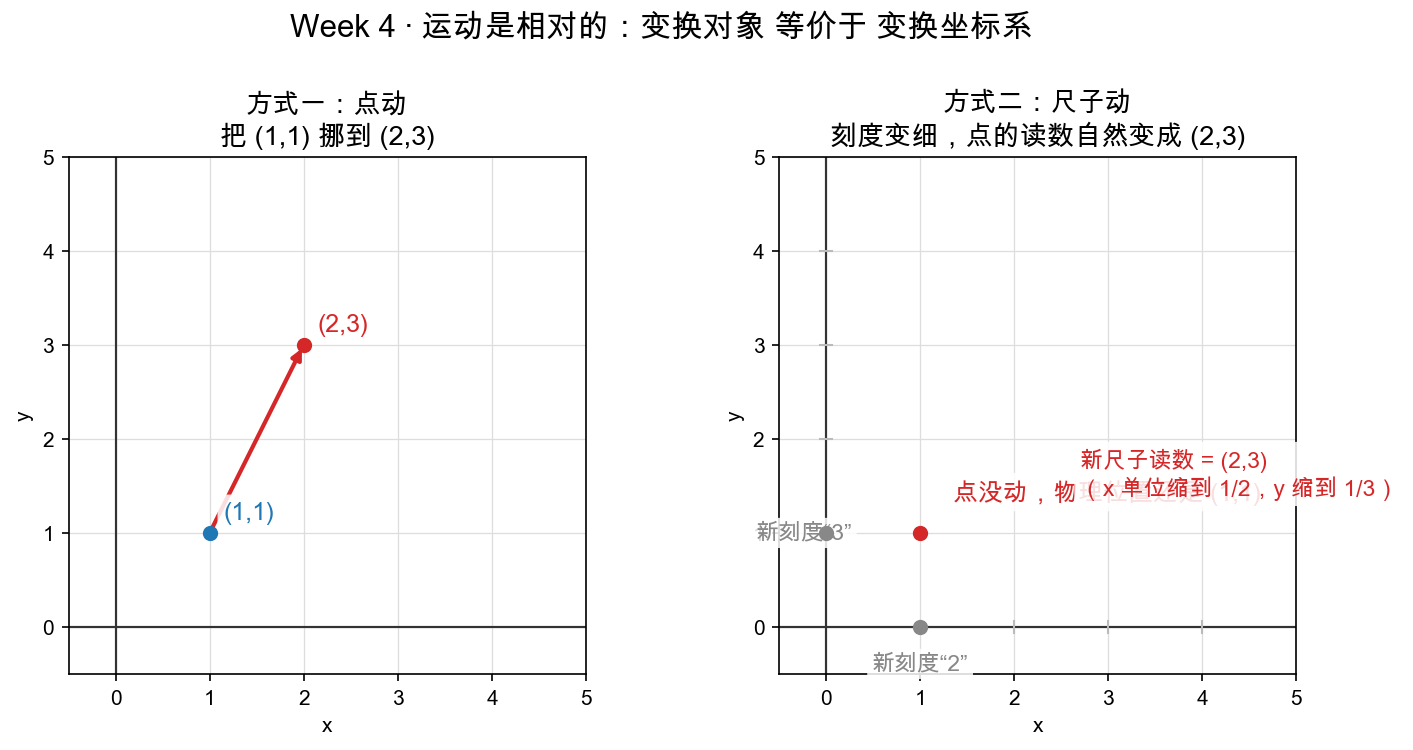
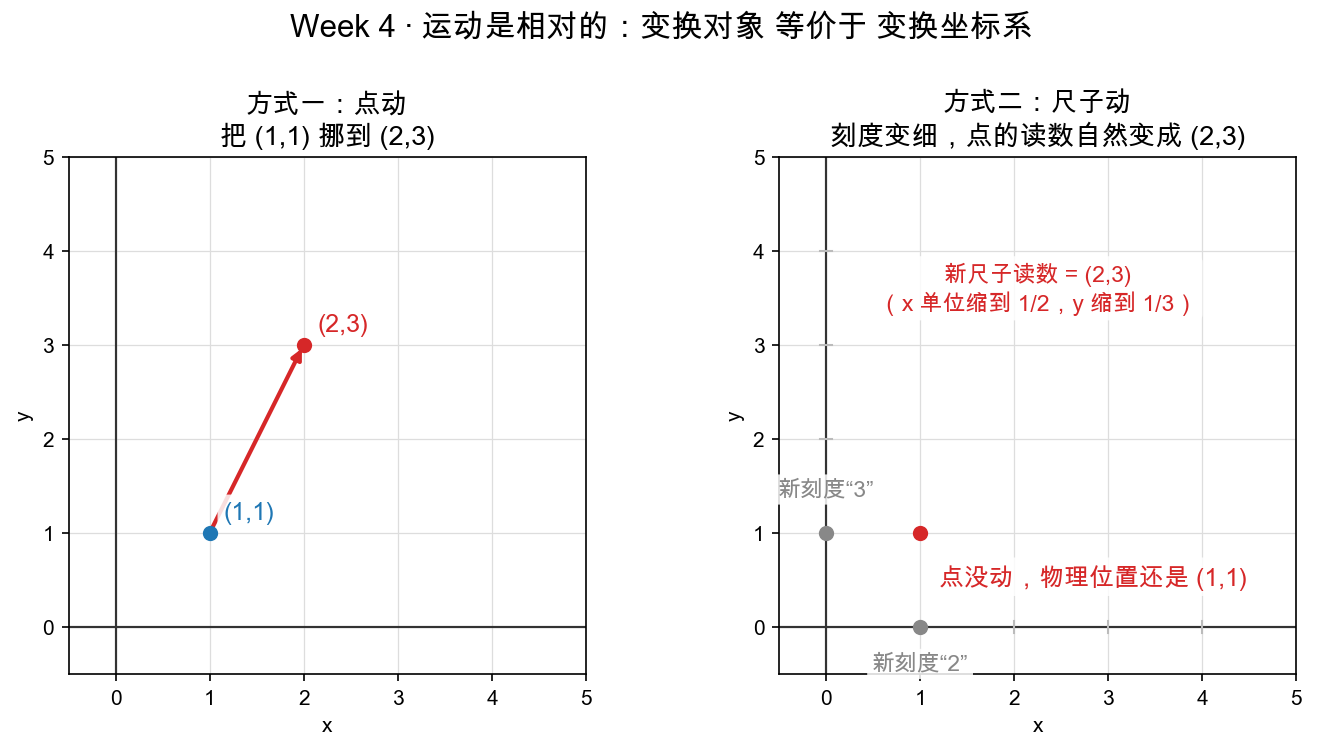
更新 W4D2 图示：调整标签位置以避免重叠，增强新尺子读数的可读性，更新标题以更好地反映内容变化。

diff --git a/figures/gen_w4d2_relative_motion.py b/figures/gen_w4d2_relative_motion.py
@@ -22,8 +22,9 @@ ax1.set_title("方式一：点动\n把 (1,1) 挪到 (2,3)", fontsize=13)
 # 孟岩原例：点物理上还在 (1,1)，但新刻度把"1"标成"2"、"3"，
 # 于是同一个点的读数从 (1,1) 变成 (2,3)。
 axes(ax2, xlim=(-0.5, 5), ylim=(-0.5, 5))
+# 标签放在点的右下方，避开上方的新尺子读数说明框
 point(ax2, (1, 1), color=C_RED, label="点没动，物理位置还是 (1,1)",
-      label_offset=(0.35, 0.35))
+      label_offset=(0.2, -0.55))
 # 旧刻度（标准尺）淡色保留
 for k in range(1, 5):
     ax2.plot([k, k], [-0.06, 0.06], color="#bbbbbb", lw=1)
@@ -33,10 +34,13 @@ ax2.scatter([1], [0], color="#888888", s=40, zorder=6)
 ax2.text(1, -0.45, "新刻度“2”", color="#888888", ha="center", fontsize=11,
          bbox=dict(boxstyle="round,pad=0.2", fc="white", ec="none", alpha=0.85))
 ax2.scatter([0], [1], color="#888888", s=40, zorder=6)
-ax2.text(-0.75, 1, "新刻度“3”", color="#888888", va="center", fontsize=11,
+# 标签放到刻度点上方，不再把点盖住
+ax2.text(0, 1.35, "新刻度“3”", color="#888888", ha="center", va="bottom",
+         fontsize=11, zorder=6,
          bbox=dict(boxstyle="round,pad=0.2", fc="white", ec="none", alpha=0.85))
-ax2.text(2.7, 1.4, "新尺子读数 = (2,3)\n（x 单位缩到 1/2，y 缩到 1/3）",
-         color=C_RED, fontsize=11,
+# 说明框挪到右图上半部分的空白区，不和点的标签重叠
+ax2.text(2.25, 3.6, "新尺子读数 = (2,3)\n（x 单位缩到 1/2，y 缩到 1/3）",
+         color=C_RED, fontsize=11, ha="center", va="center",
          bbox=dict(boxstyle="round,pad=0.25", fc="white", ec="none", alpha=0.85),
          zorder=6)
 ax2.set_title("方式二：尺子动\n刻度变细，点的读数自然变成 (2,3)", fontsize=13)
